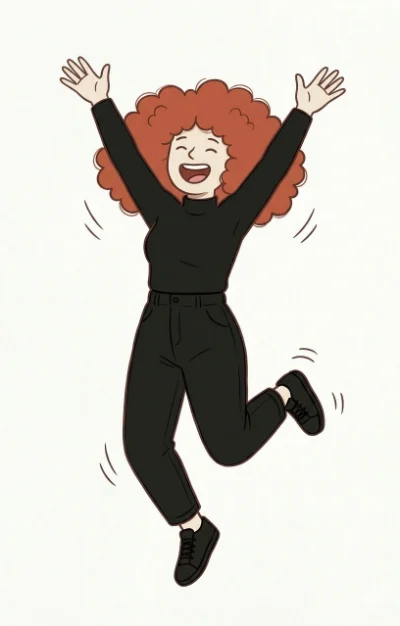
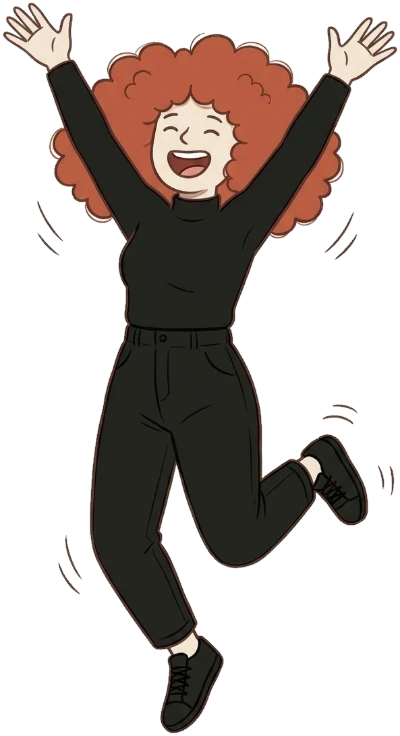
Rayito grande, nueva foto de inicio y personaje de marca en más secciones

diff --git a/index.html b/index.html
@@ -10,7 +10,7 @@
   <link rel="icon" href="assets/favicon.svg" type="image/svg+xml">
   <link rel="apple-touch-icon" href="assets/apple-touch-icon.png">
   <link rel="preload" href="assets/fonts/montserrat-var.woff2" as="font" type="font/woff2" crossorigin>
-  <link rel="preload" as="image" href="assets/img/yarife/foto-laptop-1400.webp" imagesrcset="assets/img/yarife/foto-laptop-900.webp 900w, assets/img/yarife/foto-laptop-1400.webp 1400w, assets/img/yarife/foto-laptop-2000.webp 2000w" imagesizes="(min-width: 900px) 420px, 80vw">
+  <link rel="preload" as="image" href="assets/img/yarife/foto-hola-1290.webp" imagesrcset="assets/img/yarife/foto-hola-900.webp 900w, assets/img/yarife/foto-hola-1290.webp 1290w" imagesizes="(min-width: 900px) 420px, 80vw">
   <link rel="stylesheet" href="assets/css/styles.css">
 
   <meta property="og:type" content="website">
@@ -35,6 +35,7 @@
 <body>
   <svg width="0" height="0" style="position:absolute" aria-hidden="true">
     <symbol id="bolt" viewBox="0 0 24 24"><path d="M13.6 1.5 4.2 13.7h6.2l-1.5 8.8 10.9-12.8h-6.4z" fill="currentColor"/></symbol>
+    <symbol id="bolt-big" viewBox="0 0 64 80"><path d="M34 0 4 48h22l-8 32 42-52H38L52 0z" fill="currentColor"/></symbol>
     <symbol id="arrow" viewBox="0 0 90 60"><path d="M6 10c22-6 52 0 66 34" fill="none" stroke="currentColor" stroke-width="3" stroke-linecap="round"/><path d="M58 38l15 9 4-17" fill="none" stroke="currentColor" stroke-width="3" stroke-linecap="round" stroke-linejoin="round"/></symbol>
   </svg>
 
@@ -83,15 +84,15 @@
         </div>
         <div class="hero__visual" data-reveal>
           <div class="frame">
-            <span class="frame__tag">yarife.png</span>
-            <img src="assets/img/yarife/foto-laptop-1400.webp" srcset="assets/img/yarife/foto-laptop-900.webp 900w, assets/img/yarife/foto-laptop-1400.webp 1400w, assets/img/yarife/foto-laptop-2000.webp 2000w" sizes="(min-width: 900px) 420px, 80vw" width="2000" height="3399" alt="Yarife Vallenilla sonriendo con su laptop llena de stickers" fetchpriority="high" decoding="async">
+            <span class="frame__tag">hola_soy_yarife.png</span>
+            <img src="assets/img/yarife/foto-hola-1290.webp" srcset="assets/img/yarife/foto-hola-900.webp 900w, assets/img/yarife/foto-hola-1290.webp 1290w" sizes="(min-width: 900px) 420px, 80vw" width="1290" height="1633" alt="Yarife Vallenilla sonriendo y mirando hacia arriba" fetchpriority="high" decoding="async">
             <i class="h h--tl"></i><i class="h h--tr"></i><i class="h h--bl"></i><i class="h h--br"></i>
           </div>
           <span class="pill pill--orange float f1">Identidad visual</span>
           <span class="pill pill--white float f2">Branding</span>
           <span class="pill pill--teal float f3">Marca personal</span>
           <span class="pill pill--lilac float f4">Estrategia</span>
-          <p class="hand hero__note">Sí, la de los <i>stickers</i> soy yo <svg class="arrow"><use href="#arrow"/></svg></p>
+          <p class="hand hero__note">¡Hola! Sí, esa soy yo <svg class="arrow"><use href="#arrow"/></svg></p>
         </div>
       </div>
     </section>
@@ -147,6 +148,7 @@
     <!-- ============ ÍNDICE DE PROYECTOS ============ -->
     <section class="index" id="proyectos" data-theme="ink">
       <div class="wrap">
+        <figure class="char char--index" aria-hidden="true"><img src="assets/img/yarife/personaje-camina-400.webp" srcset="assets/img/yarife/personaje-camina-400.webp 400w, assets/img/yarife/personaje-camina-409.webp 409w" sizes="150px" width="409" height="1065" alt="" loading="lazy" decoding="async" style="--ph:#745d53"><span class="bubble">¡Acompáñame!</span></figure>
         <p class="eyebrow" data-reveal><svg class="ico"><use href="#bolt"/></svg>Proyectos seleccionados</p>
         <h2 class="h2" data-reveal>Seis marcas, <span class="light">seis poderes.</span></h2>
         <p class="index__lead" data-reveal>Cada proyecto empezó con la misma pregunta: ¿qué hace única a esta marca? Esto fue lo que encontramos y cómo lo convertimos en identidad.</p>
@@ -166,7 +168,7 @@
     <section class="case" id="famko" data-theme="famko" data-name="Famko" data-num="01" aria-labelledby="famko-t">
       <div class="wrap">
         <header class="case__head">
-          <p class="case__num" data-reveal><span class="badge"><svg class="ico"><use href="#bolt"/></svg>01</span>Power 01 de 06</p>
+          <p class="case__num" data-reveal><span class="badge"><svg viewBox="0 0 64 80" aria-hidden="true"><use href="#bolt-big"/></svg><b>01</b></span>Power 01 de 06</p>
           <h2 class="case__name" id="famko-t" data-reveal>Famko</h2>
           <p class="case__power" data-reveal>El poder de <b>reunir</b></p>
           <dl class="case__meta" data-reveal>
@@ -266,7 +268,7 @@
     <section class="case" id="morrow" data-theme="morrow" data-name="Morrow" data-num="02" aria-labelledby="morrow-t">
       <div class="wrap">
         <header class="case__head">
-          <p class="case__num" data-reveal><span class="badge"><svg class="ico"><use href="#bolt"/></svg>02</span>Power 02 de 06</p>
+          <p class="case__num" data-reveal><span class="badge"><svg viewBox="0 0 64 80" aria-hidden="true"><use href="#bolt-big"/></svg><b>02</b></span>Power 02 de 06</p>
           <h2 class="case__name" id="morrow-t" data-reveal>Morrow</h2>
           <p class="case__power" data-reveal>El poder de la <b>emoción</b></p>
           <dl class="case__meta" data-reveal>
@@ -336,7 +338,7 @@
     <section class="case" id="incognito" data-theme="incognito" data-name="Incognito" data-num="03" aria-labelledby="incognito-t">
       <div class="wrap">
         <header class="case__head">
-          <p class="case__num" data-reveal><span class="badge"><svg class="ico"><use href="#bolt"/></svg>03</span>Power 03 de 06</p>
+          <p class="case__num" data-reveal><span class="badge"><svg viewBox="0 0 64 80" aria-hidden="true"><use href="#bolt-big"/></svg><b>03</b></span>Power 03 de 06</p>
           <h2 class="case__name glitch" id="incognito-t" data-text="Incognito" data-reveal>Incognito</h2>
           <p class="case__power" data-reveal>El poder del <b>misterio</b></p>
           <dl class="case__meta" data-reveal>
@@ -417,7 +419,7 @@
       <div class="shapes" aria-hidden="true"><i class="s1"></i><i class="s2"></i><i class="s3"></i></div>
       <div class="wrap">
         <header class="case__head">
-          <p class="case__num" data-reveal><span class="badge"><svg class="ico"><use href="#bolt"/></svg>04</span>Power 04 de 06</p>
+          <p class="case__num" data-reveal><span class="badge"><svg viewBox="0 0 64 80" aria-hidden="true"><use href="#bolt-big"/></svg><b>04</b></span>Power 04 de 06</p>
           <h2 class="case__name" id="toa-t" data-reveal>TO con Ander</h2>
           <p class="case__power" data-reveal>El poder del <b>juego</b></p>
           <dl class="case__meta" data-reveal>
@@ -503,7 +505,7 @@
     <section class="case" id="venecicla" data-theme="venecicla" data-name="Venecicla" data-num="05" aria-labelledby="venecicla-t">
       <div class="wrap">
         <header class="case__head">
-          <p class="case__num" data-reveal><span class="badge"><svg class="ico"><use href="#bolt"/></svg>05</span>Power 05 de 06</p>
+          <p class="case__num" data-reveal><span class="badge"><svg viewBox="0 0 64 80" aria-hidden="true"><use href="#bolt-big"/></svg><b>05</b></span>Power 05 de 06</p>
           <h2 class="case__name" id="venecicla-t" data-reveal>Venecicla<span class="dot" aria-hidden="true"></span></h2>
           <p class="case__power" data-reveal>El poder de <b>transformar</b></p>
           <dl class="case__meta" data-reveal>
@@ -589,7 +591,7 @@
     <section class="case" id="mandingal" data-theme="mandingal" data-name="Mandingal" data-num="06" aria-labelledby="mandingal-t">
       <div class="wrap">
         <header class="case__head">
-          <p class="case__num" data-reveal><span class="badge"><svg class="ico"><use href="#bolt"/></svg>06</span>Power 06 de 06</p>
+          <p class="case__num" data-reveal><span class="badge"><svg viewBox="0 0 64 80" aria-hidden="true"><use href="#bolt-big"/></svg><b>06</b></span>Power 06 de 06</p>
           <h2 class="case__name" id="mandingal-t" data-reveal>Mandingal</h2>
           <p class="case__power" data-reveal>El poder de lo <b>natural</b></p>
           <dl class="case__meta" data-reveal>
@@ -720,6 +722,7 @@
     <section class="process" id="proceso" data-theme="night">
       <div class="process__glow" aria-hidden="true"></div>
       <div class="wrap">
+        <figure class="char char--process" aria-hidden="true"><img src="assets/img/yarife/personaje-saludo-450.webp" srcset="assets/img/yarife/personaje-saludo-450.webp 450w, assets/img/yarife/personaje-saludo-900.webp 900w" sizes="150px" width="900" height="1972" alt="" loading="lazy" decoding="async" style="--ph:#986290"><span class="bubble">Paso a paso, sin enredos</span></figure>
         <p class="eyebrow" data-reveal><svg class="ico"><use href="#bolt"/></svg>Cómo trabajo</p>
         <h2 class="h2" data-reveal>Así se desata <span class="light">un Power.</span></h2>
         <p class="process__lead" data-reveal>Un proceso claro, acompañado y sin tecnicismos. Siempre sabes en qué paso estamos y qué viene después.</p>
@@ -751,6 +754,7 @@
             <p><a class="direct__link" href="mailto:yarifepower@gmail.com">yarifepower@gmail.com</a> <button type="button" class="copy" data-copy="yarifepower@gmail.com">Copiar</button></p>
             <p><a class="direct__link" href="https://wa.me/584242429016" target="_blank" rel="noopener">WhatsApp: +58 424 242 9016</a></p>
           </div>
+          <figure class="char char--contact" aria-hidden="true"><img src="assets/img/yarife/personaje-salto-400.webp" srcset="assets/img/yarife/personaje-salto-400.webp 400w, assets/img/yarife/personaje-salto-593.webp 593w" sizes="200px" width="593" height="1091" alt="" loading="lazy" decoding="async" style="--ph:#40342b"><span class="bubble">¡Te espero!</span></figure>
         </div>
 
         <form class="form" id="form" data-reveal novalidate>

diff --git a/assets/css/styles.css b/assets/css/styles.css
@@ -284,7 +284,7 @@ main > section, .footer { background-color: var(--bg); color: var(--fg); positio
 .f3 { bottom: 30%; right: -10%; transform: rotate(5deg); animation-delay: -3s; }
 .f4 { bottom: 9%; left: -12%; transform: rotate(-6deg); animation-delay: -4.5s; }
 @keyframes bob { 50% { translate: 0 -10px; } }
-.hero__note { position: absolute; left: -40%; bottom: 29%; color: var(--sand); transform: rotate(-6deg); display: flex; align-items: flex-end; gap: .2em; white-space: nowrap; }
+.hero__note { position: absolute; left: -50%; bottom: 33%; color: var(--sand); transform: rotate(-6deg); display: flex; align-items: flex-end; gap: .2em; white-space: nowrap; }
 .hero__note .arrow { width: 70px; height: 46px; }
 @media (max-width: 1240px) { .hero__note { display: none; } }
 
@@ -388,14 +388,19 @@ main > section, .footer { background-color: var(--bg); color: var(--fg); positio
 .case__num { display: flex; align-items: center; gap: .8rem; font-size: .8rem; font-weight: 700; letter-spacing: .16em; text-transform: uppercase; color: var(--muted); }
 /* Insignia del proyecto: sticker de Yarife Power (rayito + número) */
 .badge {
-  display: inline-flex; align-items: center; gap: .35em;
-  padding: .45em .9em .45em .7em; border-radius: 999px;
-  background: var(--orange); color: var(--night);
-  font-size: .9rem; font-weight: 900; letter-spacing: 0;
-  box-shadow: 0 3px 0 rgba(20, 15, 26, .35);
-  transform: rotate(-4deg);
+  position: relative; display: grid; place-items: center; flex: none;
+  width: clamp(64px, 7vw, 84px); aspect-ratio: 64 / 80;
+  color: var(--orange); transform: rotate(-6deg);
+  filter: drop-shadow(4px 5px 0 rgba(20, 15, 26, .35));
+  transition: transform .4s var(--ease);
 }
-.badge .ico { width: 1.05em; height: 1.05em; }
+.badge svg { position: absolute; inset: 0; width: 100%; height: 100%; }
+.badge b {
+  position: relative; margin: 2% 6% 0 0;
+  font-size: clamp(1.05rem, .8rem + .9vw, 1.4rem); font-weight: 900; letter-spacing: -.02em; line-height: 1;
+  color: #fff; -webkit-text-stroke: 4px var(--night); paint-order: stroke fill;
+}
+.case__num:hover .badge { transform: rotate(4deg) scale(1.06); }
 .case__name {
   font-size: clamp(2.8rem, 1.2rem + 7vw, 7.6rem);
   line-height: .9; font-weight: 900; letter-spacing: -.055em; margin-top: .6rem;
@@ -559,6 +564,21 @@ main > section, .footer { background-color: var(--bg); color: var(--fg); positio
 .frame--violet .frame__tag { background: var(--violet); color: #fff; }
 .frame--violet .h { border-color: var(--violet); }
 .frame--violet img { filter: drop-shadow(0 20px 30px rgba(91, 11, 163, .2)); }
+/* Personaje de marca en distintas secciones */
+.char { position: absolute; z-index: 2; pointer-events: none; }
+.char img { width: 100%; background: transparent; filter: drop-shadow(0 12px 18px rgba(20, 15, 26, .25)); }
+.char .bubble { left: auto; right: 78%; top: 0; border-radius: 16px 16px 4px 16px; font-size: 1.3rem; }
+.char--index { right: 0; top: -10px; width: clamp(70px, 9vw, 118px); animation: bob 5s ease-in-out infinite; }
+.char--process { right: 0; top: -20px; width: clamp(80px, 10vw, 130px); }
+.char--process .bubble { background: var(--lilac); }
+.contact__copy { position: relative; }
+.char--contact { position: relative; width: clamp(110px, 13vw, 170px); margin: 2rem 0 0 auto; animation: bob 3.5s ease-in-out infinite; }
+.char--contact .bubble { right: 85%; top: 8%; }
+@media (max-width: 700px) {
+  .char--index, .char--process { width: 72px; top: -30px; }
+  .char .bubble { font-size: 1.05rem; }
+  .char--contact { margin: 1.5rem auto 0; }
+}
 .about__char { position: absolute; left: -4%; bottom: -10%; width: clamp(90px, 13vw, 150px); }
 .about__char img { background: transparent; }
 .bubble {
